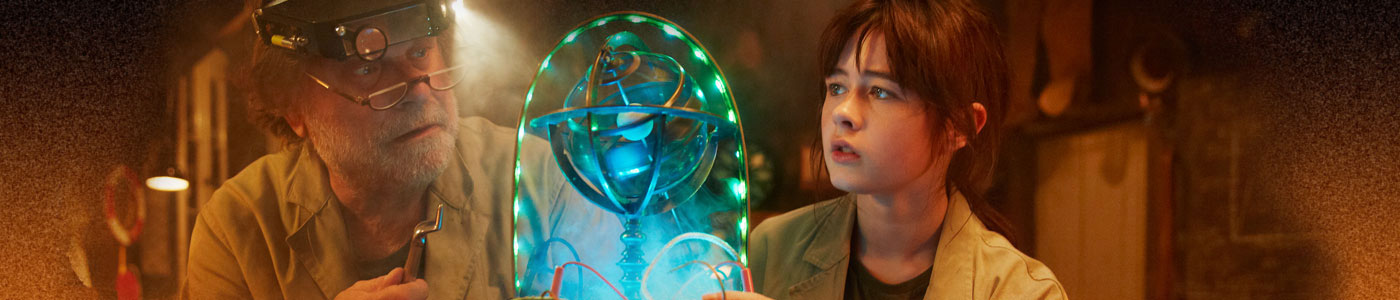
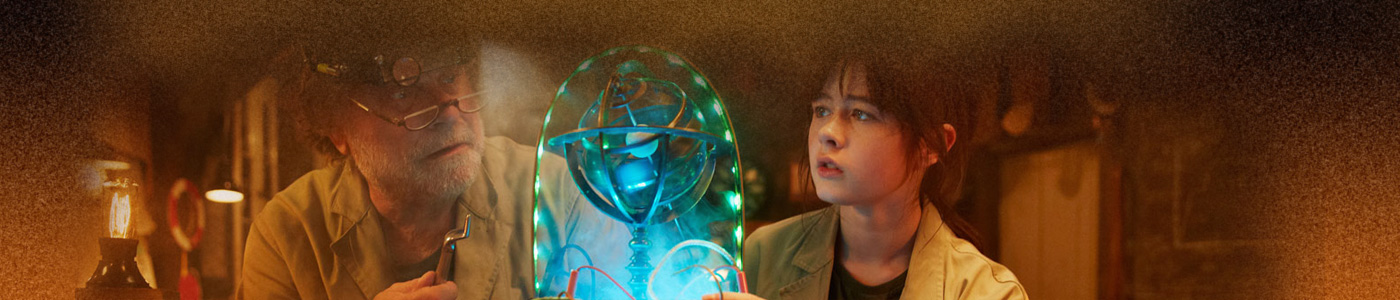
styling page timaflakk

diff --git a/sites/all/themes/at_krakkaruv/css/screen.css b/sites/all/themes/at_krakkaruv/css/screen.css
@@ -7538,14 +7538,10 @@ footer .region-footer {
   position: relative;
 }
 @media -sass-debug-info{filename{font-family:file\:\/\/C\:\/Users\/franze\/hosts\/krakkaruv\/sites\/all\/themes\/at_krakkaruv\/ruv_sass\/components\/_christmas_page\.scss}line{font-family:\00003189}}
-.timaflakkid-jol .field-name-field-image-banner {
+.timaflakkid-jol .one-column {
   margin: 0;
   text-align: center;
-  background: url(images/christmas/banner-subpages-timaflakk-bg-repeat.jpg) repeat-x top center;
-}
-@media -sass-debug-info{filename{font-family:file\:\/\/C\:\/Users\/franze\/hosts\/krakkaruv\/sites\/all\/themes\/at_krakkaruv\/ruv_sass\/components\/_christmas_page\.scss}line{font-family:\00003193}}
-.timaflakkid-jol .field-name-field-image-banner img {
-  width: auto;
+  background: url(images/christmas/timaflakk.jpg) no-repeat top center;
 }
 
 /*
@@ -7553,12 +7549,12 @@ footer .region-footer {
   Page Layout for krakkaruv.is/jol/joladagatal
 ==========================================================
 */
-@media -sass-debug-info{filename{font-family:file\:\/\/C\:\/Users\/franze\/hosts\/krakkaruv\/sites\/all\/themes\/at_krakkaruv\/ruv_sass\/components\/_christmas_page\.scss}line{font-family:\00003206}}
+@media -sass-debug-info{filename{font-family:file\:\/\/C\:\/Users\/franze\/hosts\/krakkaruv\/sites\/all\/themes\/at_krakkaruv\/ruv_sass\/components\/_christmas_page\.scss}line{font-family:\00003203}}
 .page-jol-joladagatal #columns {
   padding-top: 112px;
   margin-bottom: 160px;
 }
-@media -sass-debug-info{filename{font-family:file\:\/\/C\:\/Users\/franze\/hosts\/krakkaruv\/sites\/all\/themes\/at_krakkaruv\/ruv_sass\/components\/_christmas_page\.scss}line{font-family:\00003210}}
+@media -sass-debug-info{filename{font-family:file\:\/\/C\:\/Users\/franze\/hosts\/krakkaruv\/sites\/all\/themes\/at_krakkaruv\/ruv_sass\/components\/_christmas_page\.scss}line{font-family:\00003207}}
 .page-jol-joladagatal #page-title {
   color: #FFF;
   position: relative;
@@ -7571,55 +7567,55 @@ footer .region-footer {
 
 /* Min width 581px */
 @media only screen and (min-width: 581px) {
-@media -sass-debug-info{filename{font-family:file\:\/\/C\:\/Users\/franze\/hosts\/krakkaruv\/sites\/all\/themes\/at_krakkaruv\/ruv_sass\/components\/_christmas_page\.scss}line{font-family:\00003226}}
+@media -sass-debug-info{filename{font-family:file\:\/\/C\:\/Users\/franze\/hosts\/krakkaruv\/sites\/all\/themes\/at_krakkaruv\/ruv_sass\/components\/_christmas_page\.scss}line{font-family:\00003223}}
   .christmas-wishes #columns .region-two-brick-right-above .pane-title {
     font-size: 19px;
   }
-@media -sass-debug-info{filename{font-family:file\:\/\/C\:\/Users\/franze\/hosts\/krakkaruv\/sites\/all\/themes\/at_krakkaruv\/ruv_sass\/components\/_christmas_page\.scss}line{font-family:\00003230}}
+@media -sass-debug-info{filename{font-family:file\:\/\/C\:\/Users\/franze\/hosts\/krakkaruv\/sites\/all\/themes\/at_krakkaruv\/ruv_sass\/components\/_christmas_page\.scss}line{font-family:\00003227}}
   .christmas-wishes #columns .region-two-brick-left-above {
     padding-right: 10px;
   }
 }
 /* Min width 768px */
 @media only screen and (min-width: 768px) {
-@media -sass-debug-info{filename{font-family:file\:\/\/C\:\/Users\/franze\/hosts\/krakkaruv\/sites\/all\/themes\/at_krakkaruv\/ruv_sass\/components\/_christmas_page\.scss}line{font-family:\00003240}}
+@media -sass-debug-info{filename{font-family:file\:\/\/C\:\/Users\/franze\/hosts\/krakkaruv\/sites\/all\/themes\/at_krakkaruv\/ruv_sass\/components\/_christmas_page\.scss}line{font-family:\00003237}}
   .page-jol #columns {
     padding-bottom: 0;
   }
 
-@media -sass-debug-info{filename{font-family:file\:\/\/C\:\/Users\/franze\/hosts\/krakkaruv\/sites\/all\/themes\/at_krakkaruv\/ruv_sass\/components\/_christmas_page\.scss}line{font-family:\00003245}}
+@media -sass-debug-info{filename{font-family:file\:\/\/C\:\/Users\/franze\/hosts\/krakkaruv\/sites\/all\/themes\/at_krakkaruv\/ruv_sass\/components\/_christmas_page\.scss}line{font-family:\00003242}}
   .christmas-wishes #columns {
     padding-bottom: 160px;
   }
-@media -sass-debug-info{filename{font-family:file\:\/\/C\:\/Users\/franze\/hosts\/krakkaruv\/sites\/all\/themes\/at_krakkaruv\/ruv_sass\/components\/_christmas_page\.scss}line{font-family:\00003248}}
+@media -sass-debug-info{filename{font-family:file\:\/\/C\:\/Users\/franze\/hosts\/krakkaruv\/sites\/all\/themes\/at_krakkaruv\/ruv_sass\/components\/_christmas_page\.scss}line{font-family:\00003245}}
   .christmas-wishes #columns .region-two-brick-right-above .pane-title {
     font-size: 26px;
   }
-@media -sass-debug-info{filename{font-family:file\:\/\/C\:\/Users\/franze\/hosts\/krakkaruv\/sites\/all\/themes\/at_krakkaruv\/ruv_sass\/components\/_christmas_page\.scss}line{font-family:\00003254}}
+@media -sass-debug-info{filename{font-family:file\:\/\/C\:\/Users\/franze\/hosts\/krakkaruv\/sites\/all\/themes\/at_krakkaruv\/ruv_sass\/components\/_christmas_page\.scss}line{font-family:\00003251}}
   .christmas-wishes .hero-image .inner {
     background: url(images/christmas/banner-subpages-medium-wishes3.jpg) no-repeat top center;
   }
 
-@media -sass-debug-info{filename{font-family:file\:\/\/C\:\/Users\/franze\/hosts\/krakkaruv\/sites\/all\/themes\/at_krakkaruv\/ruv_sass\/components\/_christmas_page\.scss}line{font-family:\00003260}}
+@media -sass-debug-info{filename{font-family:file\:\/\/C\:\/Users\/franze\/hosts\/krakkaruv\/sites\/all\/themes\/at_krakkaruv\/ruv_sass\/components\/_christmas_page\.scss}line{font-family:\00003257}}
   .page-jol-banner .radio-player-wrapper {
     background: url(images/christmas/banner-subpages-medium-radio.jpg) no-repeat top center;
   }
 }
 /* Min width 1024px */
 @media only screen and (min-width: 1024px) {
-@media -sass-debug-info{filename{font-family:file\:\/\/C\:\/Users\/franze\/hosts\/krakkaruv\/sites\/all\/themes\/at_krakkaruv\/ruv_sass\/components\/_christmas_page\.scss}line{font-family:\00003271}}
+@media -sass-debug-info{filename{font-family:file\:\/\/C\:\/Users\/franze\/hosts\/krakkaruv\/sites\/all\/themes\/at_krakkaruv\/ruv_sass\/components\/_christmas_page\.scss}line{font-family:\00003268}}
   .christmas-wishes #columns .region-two-brick-right-above .pane-title {
     font-size: 36px;
   }
 }
 /* Min width 1100px */
 @media only screen and (min-width: 1100px) {
-@media -sass-debug-info{filename{font-family:file\:\/\/C\:\/Users\/franze\/hosts\/krakkaruv\/sites\/all\/themes\/at_krakkaruv\/ruv_sass\/components\/_christmas_page\.scss}line{font-family:\00003282}}
+@media -sass-debug-info{filename{font-family:file\:\/\/C\:\/Users\/franze\/hosts\/krakkaruv\/sites\/all\/themes\/at_krakkaruv\/ruv_sass\/components\/_christmas_page\.scss}line{font-family:\00003279}}
   .page-jol-banner .radio-player-wrapper {
     background: url(images/christmas/banner-subpages-large-radio-5.jpg) no-repeat top center;
   }
 
-@media -sass-debug-info{filename{font-family:file\:\/\/C\:\/Users\/franze\/hosts\/krakkaruv\/sites\/all\/themes\/at_krakkaruv\/ruv_sass\/components\/_christmas_page\.scss}line{font-family:\00003288}}
+@media -sass-debug-info{filename{font-family:file\:\/\/C\:\/Users\/franze\/hosts\/krakkaruv\/sites\/all\/themes\/at_krakkaruv\/ruv_sass\/components\/_christmas_page\.scss}line{font-family:\00003285}}
   .christmas-wishes .hero-image .inner {
     background: url(images/christmas/banner-subpages-large-wishes5.jpg) no-repeat top center;
   }

diff --git a/sites/all/themes/at_krakkaruv/ruv_sass/components/_christmas_page.scss b/sites/all/themes/at_krakkaruv/ruv_sass/components/_christmas_page.scss
@@ -186,13 +186,10 @@
       position: relative;
     }
   }
-  .field-name-field-image-banner {
+  .one-column {
     margin: 0;
     text-align: center;
-    background: url(images/christmas/banner-subpages-timaflakk-bg-repeat.jpg) repeat-x top center;
-    img {
-      width: auto;
-    }
+    background: url(images/christmas/timaflakk.jpg) no-repeat top center;
   }
 }
 
